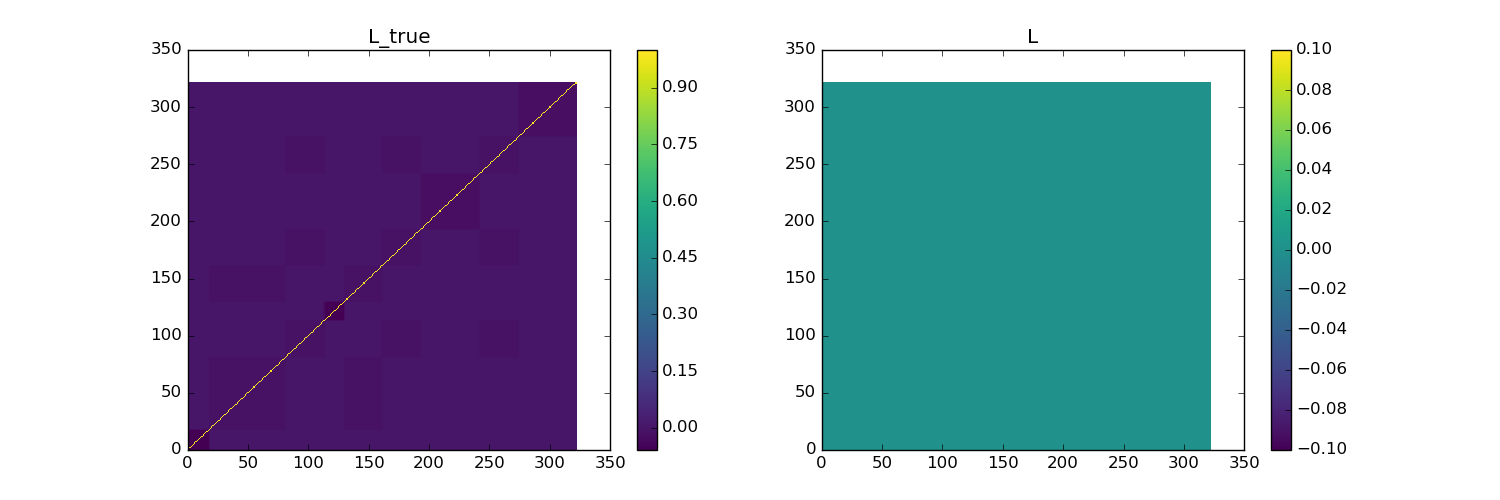
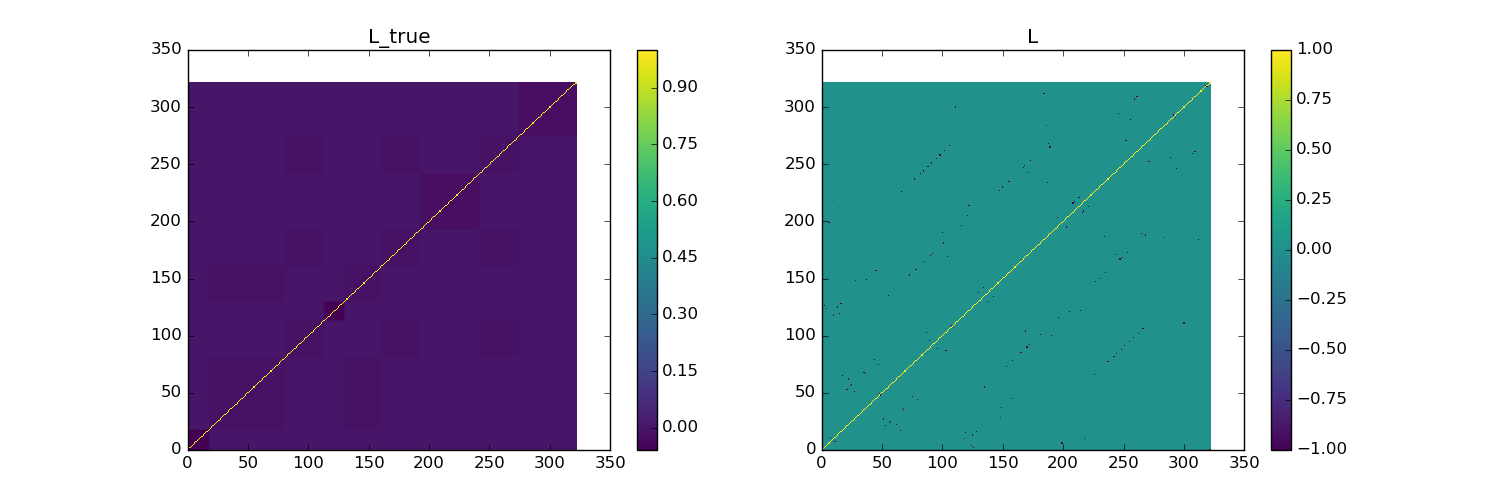
modify formula

diff --git a/model/modelOnMusic.py b/model/modelOnMusic.py
@@ -10,7 +10,7 @@ sys.path.append('../src')
 import laplacian, gradient, plotGraph, librosaF
 import RecurrenceMatrix as RM
 
-epco, alpha, res = 30, 2000, []
+epco, alpha, res, sigmaMul = 30, 2000, [], 10
 np.random.seed(123)
 
 sigmaPath = "./sigmas/"
@@ -73,13 +73,14 @@ cqt = librosa.cqt(y=y, sr=sr)
 
 print "Perform sync"
 cqt_med, frameConversion = librosaF.sync(cqt, beats, aggregate=np.median)
+cqt_med = cqt_med.T
 
 print "Perform loadInterval2Frame"
 interval = loadInterval2Frame("../data/anno/698/parsed/textfile1_uppercase.txt", sr, frameConversion)
 
-sigmas = np.random.rand(cqt_med.shape[1], cqt_med.shape[1])
-sigmas = (sigmas + sigmas.T)/2
-gm = RM.feature2GaussianMatrix(cqt_med.T, sigmas) #(nSample, nFeature)
+sigmas = np.random.rand(cqt_med.shape[0], cqt_med.shape[0])
+sigmas = ((sigmas + sigmas.T)/2)*sigmaMul
+gm = RM.feature2GaussianMatrix(cqt_med, sigmas) #(nSample, nFeature)
 L = scipy.sparse.csgraph.laplacian(gm, normed=True)
 
 print "gm.shape: ", gm.shape
@@ -91,11 +92,11 @@ print "gm.shape, m_true.shape: ", gm.shape, m_true.shape
 print "gm is symmetric: ", (gm==np.transpose(gm)).all()
 print "m_true is symmetric: ", (m_true==np.transpose(m_true)).all()
 
-plotGraph.plot2('./realMusicRMatrix', m_true, "m_true", gm, "gm")
-plotGraph.plot2('./realMusicLaplacian', L_true, "L_true", L, "L")
+plotGraph.plot2('./realMusicRMatrix2', m_true, "m_true", gm, "gm")
+plotGraph.plot2('./realMusicLaplacian2', L_true, "L_true", L, "L")
 
 for i in xrange(epco):
-  accu = gradient.allDLoss(sigmas, L, L_true, gm, cqt_med.T)
+  accu = gradient.allDLoss(sigmas, L, L_true, gm, cqt_med)
   sigmas = sigmas - alpha * accu
   sigmas = np.around(sigmas, decimals = 10)
 
@@ -103,7 +104,7 @@ for i in xrange(epco):
   print "saving sigmas to: ", filename
   np.save(filename, sigmas)
 
-  gm = RM.feature2GaussianMatrix(cqt_med.T, sigmas)
+  gm = RM.feature2GaussianMatrix(cqt_med, sigmas)
   L = scipy.sparse.csgraph.laplacian(gm, normed=True)
 
   filename = figurePath + namePrefix + "_epch" + str(i) + ".png"

diff --git a/model/test.py b/model/test.py
@@ -1,1 +1,11 @@
-np.load(name)
+import numpy as np
+sigmas = np.load('./sigmas/modelReal_Alpha2000_step0.npy')
+sigmas1 = np.load('./sigmas/modelReal_Alpha2000_step1.npy')
+
+print "sigmas is symmetric: ",  (sigmas==sigmas.T).all()
+print "sigmas1 is symmetric: ",  (sigmas1==sigmas1.T).all()
+
+for i in xrange(sigmas.shape[0]):
+  print (sigmas[i,:]==sigmas1[i,:]).all()
+# for elm in sigmas:
+#   print elm
